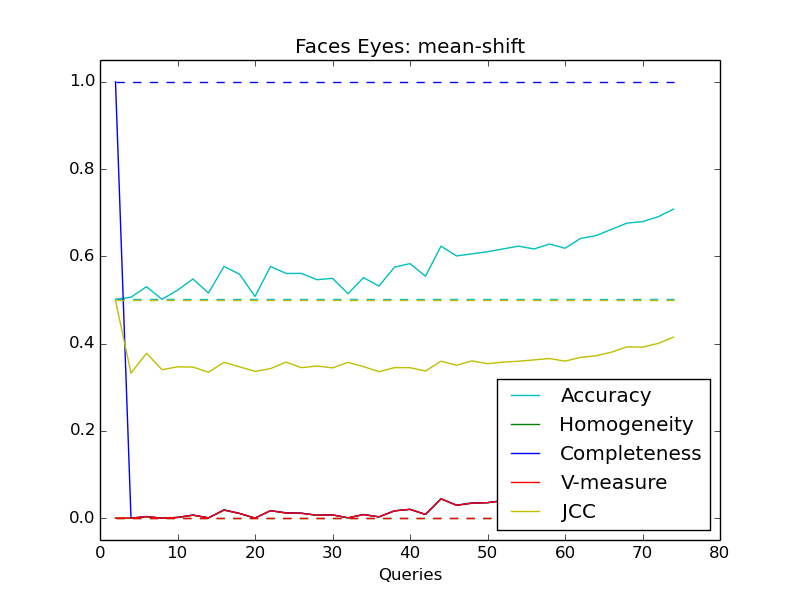
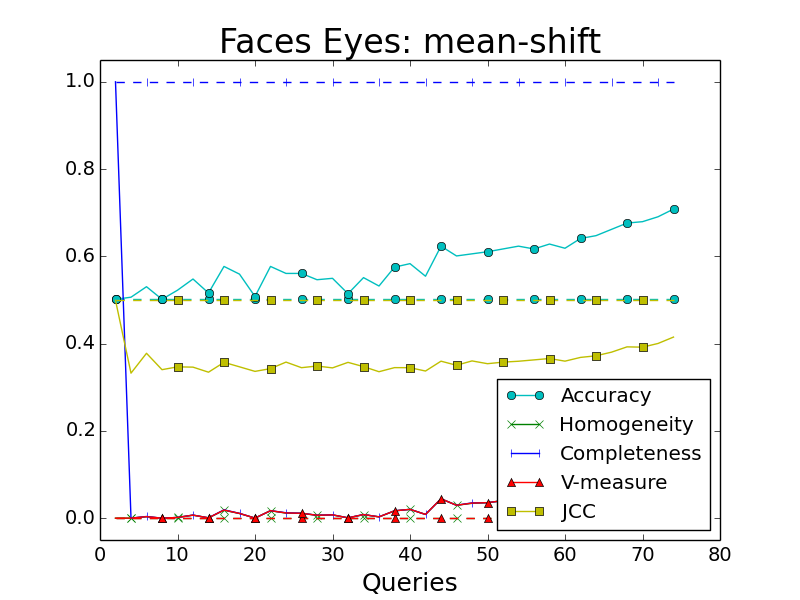
experiment changes

diff --git a/plot.py b/plot.py
@@ -51,6 +51,10 @@ def percentImprovement(x,y):
 EXT = {"query": "queries.csv", "misc": "misc.csv", "final": "final.csv"}
 MEASURE = ["Accuracy", "Homogeneity", "Completeness", "V-measure", "JCC"]
 COLOR = ['c', 'g', 'b', 'r', 'y'] 
+MARKER = ["o", "x", "|" , "^" , "s"]
+#COLOR = ['r', 'c', 'y', 'b', 'g'] 
+#MARKER = ["o", "x", "|" , "^" , "s"]
+
 
 def main(args):
     filename = args[1]
@@ -69,10 +73,11 @@ def main(args):
     initHeader, initData = loadCSV(filename + EXT["misc"])
     finalHeader, finalData = loadCSV(filename + EXT["final"])
 
-    #print header
-    data = np.array(data, dtype=float)
-    idx = header.index(MEASURE[0])
-    data[:,idx] /= 100
+    if len(data) > 0:
+        #print header
+        data = np.array(data, dtype=float)
+        idx = header.index(MEASURE[0])
+        data[:,idx] /= 100
  
 
     idx = initHeader.index('Alg')
@@ -108,30 +113,41 @@ def main(args):
 
     #print initHeader
     #print initData
+    if len(data) > 0:
+        
+        fig = pl.figure()
+        ax = fig.add_subplot(1,1,1)
+        ax.tick_params(axis='both', labelsize=14)
+        title = "%s: %s" % (dataName,alg)
+        pl.title(title, fontsize=24)
+        pl.ylim([-0.05,1.05])
+        #pl.xlim([0,500])
 
+        for u,(p,c,m) in enumerate(zip(MEASURE, COLOR, MARKER)):
+            
+            #if p == "Completeness" or p == "Homogeneity":
+            #    continue
+            
+            i = header.index(p)
+            ii = initHeader.index(p)
+        
+            markDist =(u,data.shape[0]/10 if data.shape[0] > 10 else 1)
 
+            if alg != "active" and alg != "none":
+                pl.plot(data[:,0], [float(initData[0][ii])] * data.shape[0], "--", color=c, marker=m, markevery=markDist)
+        
+            pl.plot(data[:,0], data[:,i], label=header[i], color=c, marker=m, markevery=markDist)
 
-    
-
-
-    title = "%s: %s" % (dataName,alg)
-    pl.title(title)
-    pl.ylim([-0.05,1.05])
-    for p,c in zip(MEASURE, COLOR):
-        i = header.index(p)
-        ii = initHeader.index(p)
-        pl.plot(data[:,0], [float(initData[0][ii])] * data.shape[0], "--", color=c)
-        pl.plot(data[:,0], data[:,i], label=header[i], color=c)
-
-    pl.legend(loc= 'lower right')
-    pl.xlabel("Queries")
+        pl.legend(loc= 'lower right')
+        pl.xlabel("Queries", fontsize=18)
     
     if outfolder == None:
         pl.show()
     else:
         outfile = "%s/%s_%s%s.png" %(outfolder,dataName.replace(" ", "_"), alg, postfix) 
-        print outfile
-        pl.savefig(outfile)
+        if len(data) > 0:
+            print outfile
+            pl.savefig(outfile)
 
         outfile = "%s/%s_%s%s.csv" % (outfolder, dataName.replace(" ", "_"), alg, postfix)
        

diff --git a/incOptics.py b/incOptics.py
@@ -284,12 +284,11 @@ def separateClusters(output, minPts, display=False):
         pyplot.plot(reachability, "c")
         pyplot.plot(reach, "k")
     
-        colors =['b^','r^', 'g^', 'm^', 'c^']
-        c = 0
+        colors =['r^', 'g^', 'b^', 'm^', 'c^']
 
         i = 0
-        for cl in clusters:
-            c = (c+1) % len(colors)
+        for c, cl in enumerate(clusters):
+            c = (c) % len(colors)
             for o in cl:
                 pyplot.plot(i,o.reachability, colors[c])
                 i += 1
@@ -301,7 +300,8 @@ def separateClusters(output, minPts, display=False):
     #print "variance:", np.var(reach),",", np.var(forward)
     
     if display:
-        raw_input()
+        #raw_input()
+        pass
     
     return clusters
 

diff --git a/INCREMENT.py b/INCREMENT.py
@@ -1301,7 +1301,7 @@ class Siamese(SiameseTrainAll, SiameseTestAll):
 class HRMFINCREMENT(OpticsSubclustering, CentroidSelector, ClosestPointFeedback, OracleMatching, HRMFMerge):
     pass
 
-class MergeINCREMENT(RecursiveOPTICS, MedoidSelector, FarthestLabelFeedback, OracleMatching, Siamese):
+class MergeINCREMENT(RecursiveOPTICS, MedoidSelector, FarthestLabelFeedback, OracleMatching, SiameseTestAll):
     pass
 
 class OtherINCREMENT(RecursiveOPTICS, CentroidSelector, FarthestLinkFeedback, OracleMatching, MergeSubclusters):
